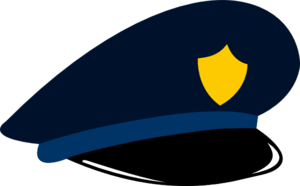
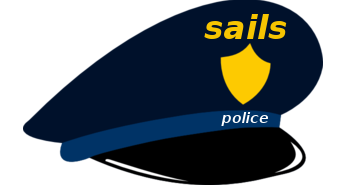
adding sail-hook-email and update police hat in docs

diff --git a/config/bootstrap.js b/config/bootstrap.js
@@ -8,10 +8,70 @@
  * For more information on bootstrapping your app, check out:
  * http://sailsjs.org/#/documentation/reference/sails.config/sails.config.bootstrap.html
  */
+var police = require('sails-police');
 
 module.exports.bootstrap = function(cb) {
 
-  // It's very important to trigger this callback method when you are finished
-  // with the bootstrap!  (otherwise your server will never lift, since it's waiting on the bootstrap)
-  cb();
+    // It's very important to trigger this callback method when you are finished
+    // with the bootstrap!  (otherwise your server will never lift, since it's waiting on the bootstrap)
+    police
+        .setTransport(function(type, user, done) {
+            //if we send confirmation email
+            if (type === police.NOTIFICATION_TYPES.REGISTRATION_CONFIRMATON) {
+                sails
+                    .hooks
+                    .email
+                    .send(
+                        "confirm", {
+                            recipientName: user.email,
+                            senderName: "Sails Police",
+                            token: user.confirmationToken
+                        }, {
+                            to: user.email,
+                            subject: "Account confirmation"
+                        },
+                        function(error) {
+                            done();
+                        }
+                    );
+            }
+
+            if (type === police.NOTIFICATION_TYPES.PASSWORD_RECOVERY_CONFIRMATON) {
+                sails
+                    .hooks
+                    .email
+                    .send(
+                        "recover", {
+                            recipientName: "Joe",
+                            senderName: "Sue"
+                        }, {
+                            to: "joe@example.com",
+                            subject: "Hi there"
+                        },
+                        function(error) {
+                            done();
+                        }
+                    );
+            }
+
+            if (type === police.NOTIFICATION_TYPES.UNLOCK_CONFIRMATON) {
+                sails
+                    .hooks
+                    .email
+                    .send(
+                        "unlock", {
+                            recipientName: "Joe",
+                            senderName: "Sue"
+                        }, {
+                            to: "joe@example.com",
+                            subject: "Hi there"
+                        },
+                        function(error) {
+                            done();
+                        }
+                    );
+            }
+        });
+
+    cb();
 };

diff --git a/index.js b/index.js
@@ -133,6 +133,7 @@ Police.prototype.policies = {
                 postSignup: true,
                 getConfirm: true,
                 getForgot: true,
+                deleteSignout: true,
                 // postForgotPassword: true,
                 // getForgotPasswordToken: true,
                 // postForgotPasswordToken: true,
@@ -149,7 +150,7 @@ Police.prototype.routes = {
         return _.extend(routes, {
             'get /signin': 'AuthController.getSignin',
             'post /signin': 'AuthController.postSignin',
-            // 'get /logout': 'AuthController.getLogout',
+            'delete /signout': 'AuthController.deleteSignout',
             'get /signup': 'AuthController.getSignup',
             'post /signup': 'AuthController.postSignup',
             'get /confirm/:token': 'AuthController.getConfirm',
@@ -176,8 +177,14 @@ Police.prototype.middlewares = {
      * @return {Object}             sailsjs middlewares extended with police middlewares
      */
     mixin: function(middlewares) {
+        //remember current sails http config object
         var previousMiddlewares = middlewares;
+
+        //remember current sails http middlewares
         var previousOrder = middlewares.middleware.order;
+
+        //grab the current index of the sails router middleware
+        //from sails middleware order
         var indexOfRouter = previousOrder.indexOf('router');
 
         //patching sails middleware and
@@ -208,7 +215,7 @@ Police.prototype.middlewares = {
         previousOrder.splice(indexOfRouter, 0, 'policeLocals', 'policeInit', 'policeSession');
         middlewares.middleware.order = previousOrder;
 
-        //return patched middlewares
+        //return patched sails http config object
         return middlewares;
     }
 };

diff --git a/config/http.js b/config/http.js
@@ -10,6 +10,8 @@
  */
 var police = require('sails-police');
 
+var override = require('method-override');
+
 module.exports.http = police.middlewares.mixin({
 
     /****************************************************************************
@@ -55,10 +57,11 @@ module.exports.http = police.middlewares.mixin({
          *                                                                           *
          ****************************************************************************/
 
-        myRequestLogger: function(req, res, next) {
-            console.log("Requested i got it :: ", req.method, req.url);
-            return next();
-        },
+        // myRequestLogger: function(req, res, next) {
+        //     console.log("Requested i got it :: ", req.method, req.url);
+        //     return next();
+        // },
+        methodOverride: override('_method', ['POST'])
 
         /***************************************************************************
          *                                                                          *

diff --git a/api/controllers/AuthController.js b/api/controllers/AuthController.js
@@ -170,4 +170,22 @@ module.exports = {
             error: ''
         });
     },
+
+    /**
+     * @description DELETE /signout
+     *
+     * @param {HttpRequest} request
+     * @param {HttpResponse} response
+     */
+    deleteSignout: function(request, response) {
+        var user = request.user;
+
+        request.logout();
+
+        sails.emit('signout', user);
+
+        request.flash('success', 'Signout successfully.');
+
+        response.redirect('/login');
+    }
 }

diff --git a/config/routes.js b/config/routes.js
@@ -32,7 +32,8 @@ module.exports.routes = police.routes.mixin({
      *                                                                          *
      ***************************************************************************/
 
-    '/': 'HomeController.index'
+    '/': 'HomeController.index',
+    'put /home': 'HomeController.update'
 
 
 

diff --git a/api/controllers/HomeController.js b/api/controllers/HomeController.js
@@ -1,5 +1,8 @@
 module.exports = {
     index: function(request, response) {
-        response.view('welcome')
+        response
+            .view('home/index', {
+                title: 'Home'
+            });
     }
 }

diff --git a/api/hooks/email.js b/api/hooks/email.js
@@ -1,0 +1,1 @@
+module.exports = require('sails-hook-email');

diff --git a/README.md b/README.md
@@ -1,7 +1,6 @@
 ![sails-police](https://github.com/lykmapipo/sails-police/blob/master/police-hat-md.png "sails-police") 
 
-sails-police(development)
-=========================
+==============================================
 
 [![Build Status](https://travis-ci.org/lykmapipo/sails-police.svg?branch=master)](https://travis-ci.org/lykmapipo/sails-police)
 
